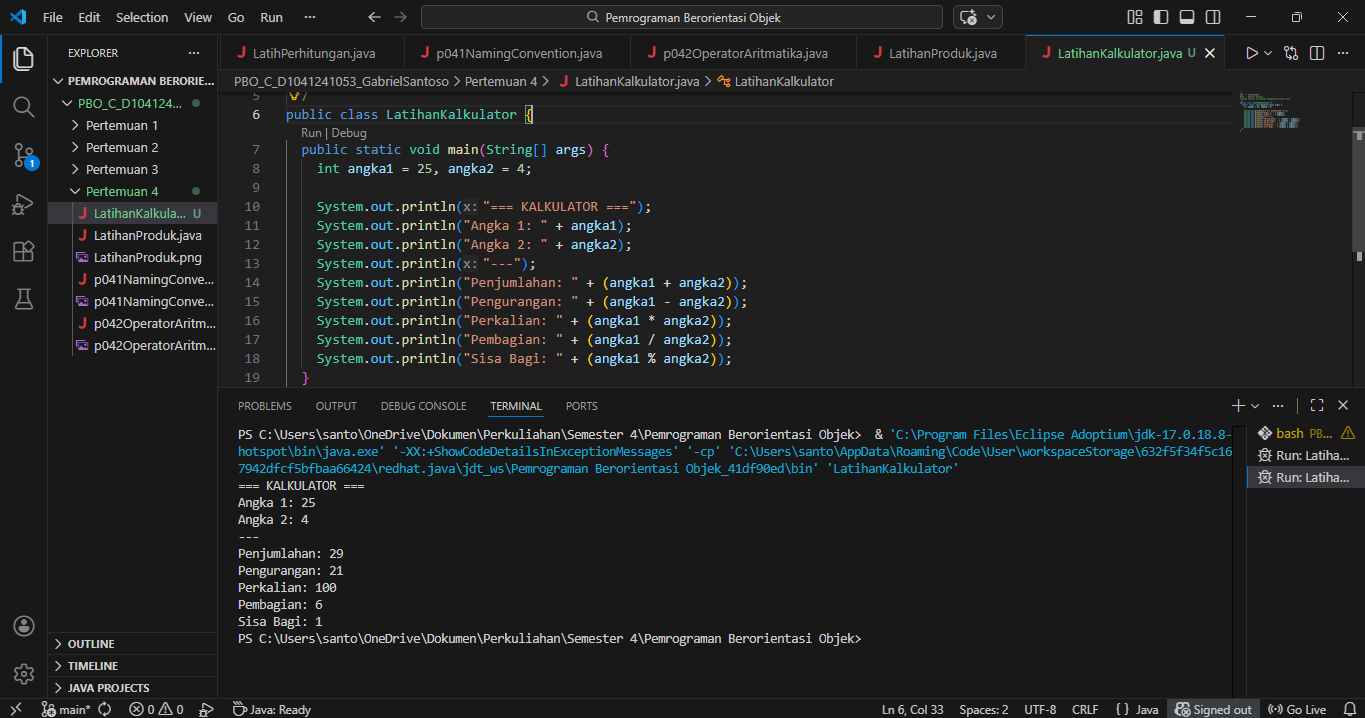
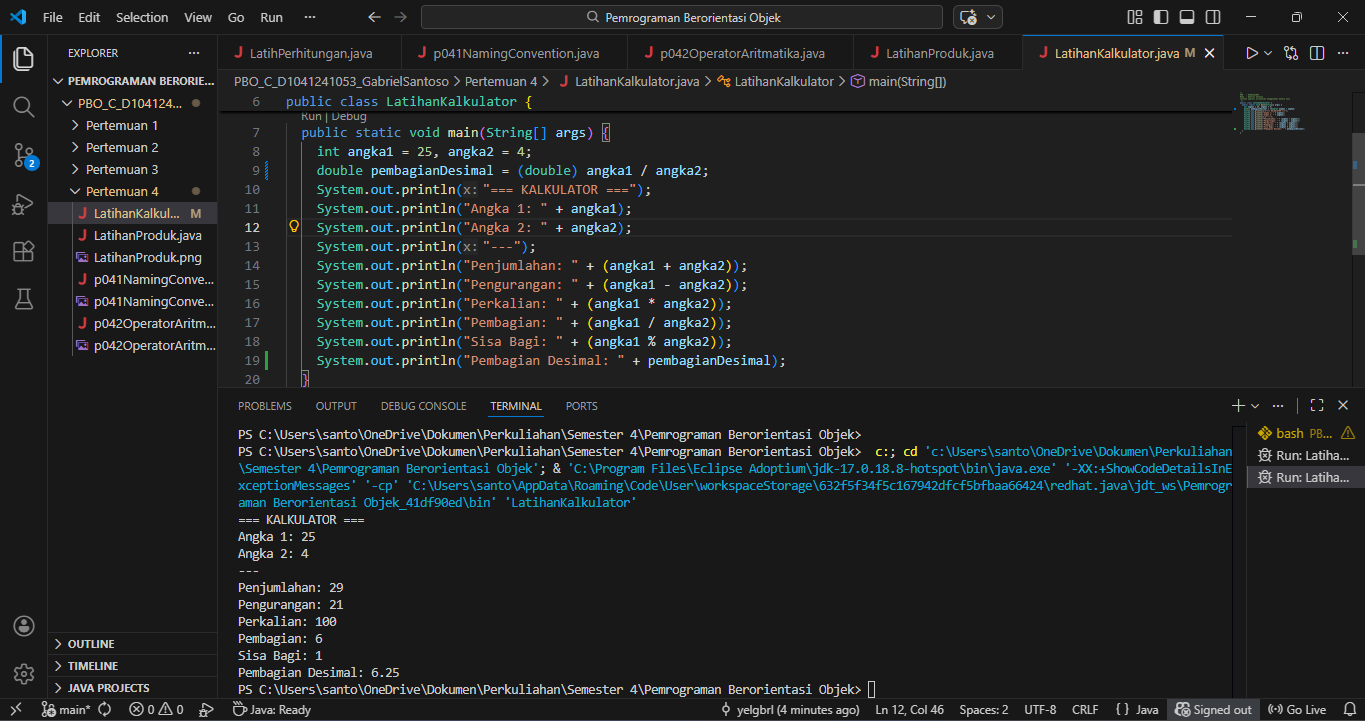
Merevisi file LatihanKalkulator : Menambahkan Pembagian Desimal

diff --git a/Pertemuan 4/LatihanKalkulator.java b/Pertemuan 4/LatihanKalkulator.java
@@ -6,7 +6,7 @@ Latihan operasi aritmatika menggunakan bahasa Java
 public class LatihanKalkulator {
   public static void main(String[] args) {
     int angka1 = 25, angka2 = 4;
-
+    double pembagianDesimal = (double) angka1 / angka2;
     System.out.println("=== KALKULATOR ===");
     System.out.println("Angka 1: " + angka1);
     System.out.println("Angka 2: " + angka2);
@@ -16,5 +16,6 @@ public class LatihanKalkulator {
     System.out.println("Perkalian: " + (angka1 * angka2));
     System.out.println("Pembagian: " + (angka1 / angka2));
     System.out.println("Sisa Bagi: " + (angka1 % angka2));
+    System.out.println("Pembagian Desimal: " + pembagianDesimal);
   }
 }
